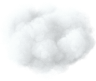
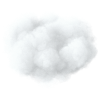
chore(suite-data): refactor png images, remove @3x quality

Changed region(s): [[0.2188, 0.5432, 1.0, 0.8889], [0.3125, 0.1481, 0.4375, 0.2963]]

diff --git a/packages/components/src/components/Image/images.ts b/packages/components/src/components/Image/images.ts
@@ -59,50 +59,35 @@ export type PngImage = keyof typeof PNG_IMAGES;
 
 export const PNG_IMAGES = {
     CLOUDY: 'Cloudy.png',
+    CLOUDY_2x: 'Cloudy@2x.png',
     BACKUP: 'Backup.png',
     BACKUP_2x: 'Backup@2x.png',
-    BACKUP_3x: 'Backup@3x.png',
     CHECK: 'Check.png',
     CHECK_2x: 'Check@2x.png',
-    CHECK_3x: 'Check@3x.png',
     CLOCK: 'Clock.png',
     CLOCK_2x: 'Clock@2x.png',
-    CLOCK_3x: 'Clock@3x.png',
     COINS: 'Coins.png',
     COINS_2x: 'Coins@2x.png',
-    COINS_3x: 'Coins@3x.png',
     ERROR: 'Error.png',
     ERROR_2x: 'Error@2x.png',
-    ERROR_3x: 'Error@3x.png',
     EXTRA_INFO: 'ExtraInfo.png',
     EXTRA_INFO_2x: 'ExtraInfo@2x.png',
-    EXTRA_INFO_3x: 'ExtraInfo@3x.png',
     FIRMWARE: 'Firmware.png',
     FIRMWARE_2x: 'Firmware@2x.png',
-    FIRMWARE_3x: 'Firmware@3x.png',
     FOLDER: 'Folder.png',
     FOLDER_2x: 'Folder@2x.png',
-    FOLDER_3x: 'Folder@3x.png',
     KEY: 'Key.png',
     KEY_2x: 'Key@2x.png',
-    KEY_3x: 'Key@3x.png',
-    NO_TRANSACTION: 'NoTransaction.png',
-    NO_TRANSACTION_2x: 'NoTransaction@2x.png',
-    NO_TRANSACTION_3x: 'NoTransaction@3x.png',
     PIN: 'Pin.png',
     PIN_2x: 'Pin@2x.png',
-    PIN_3x: 'Pin@3x.png',
-    PIN_LOCKED: 'Pin_locked.png',
-    PIN_LOCKED_2x: 'Pin_locked@2x.png',
-    PIN_LOCKED_3x: 'Pin_locked@3x.png',
+    PIN_LOCKED: 'PinLocked.png',
+    PIN_LOCKED_2x: 'PinLocked@2x.png',
     RECOVERY: 'Recovery.png',
     RECOVERY_2x: 'Recovery@2x.png',
-    RECOVERY_3x: 'Recovery@3x.png',
     UNDERSTAND: 'Understand.png',
     UNDERSTAND_2x: 'Understand@2x.png',
-    UNDERSTAND_3x: 'Understand@3x.png',
     WALLET: 'Wallet.png',
     WALLET_2x: 'Wallet@2x.png',
-    WALLET_3x: 'Wallet@3x.png',
-    TOR_ENABLING: 'Tor_enabling.png',
+    TOR_ENABLING: 'TorEnabling.png',
+    TOR_ENABLING_2x: 'TorEnabling@2x.png',
 } as const;

diff --git a/packages/suite/src/views/wallet/coinmarket/common/no-offers/index.tsx b/packages/suite/src/views/wallet/coinmarket/common/no-offers/index.tsx
@@ -53,7 +53,7 @@ const NoOffers = ({
 }: Props) => (
     <NoOffersWrapper>
         <NoOffersImage>
-            <Image image="NO_TRANSACTION" />
+            <Image image="CLOUDY" />
         </NoOffersImage>
         <NoOffersHeader>
             <Translation id="TR_COINMARKET_NO_OFFERS_HEADER" />
